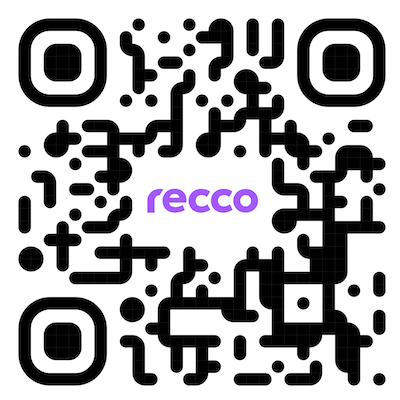
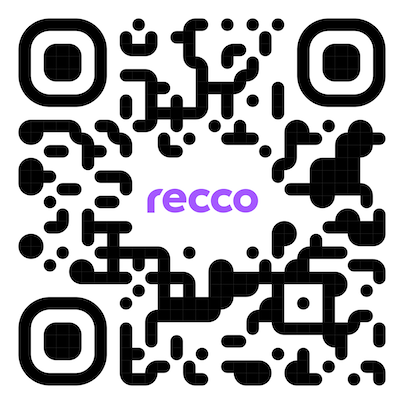
chore: update recco showcase apk reference

diff --git a/README.md b/README.md
@@ -247,5 +247,5 @@ object : ReccoLogger {
 [Recco-Flutter]:https://github.com/sf-recco/flutter-showcase
 [Recco-iOS]:https://github.com/viluahealthcare/recco-ios-sdk
 [Recco-Showcase]:./docs/SHOWCASE.md
-[Recco-Download]:https://app.bitrise.io/app/2e7050f9-468b-45b6-8ab9-73124007335f/build/56d78bb3-52d2-[…]/artifact/aea7957d222cc658/p/6f1f326e75afe5da5aa3a1bd56bbba71
+[Recco-Download]:https://app.bitrise.io/app/2e7050f9-468b-45b6-8ab9-73124007335f/build/f0cf8235-ee29-43e6-a000-7c0c7e940dd2/artifact/af27994c0df5cfbc/p/633b6a2f0ea55095050e5dab7b285bd7
 [Recco-QR]:./art/recco_qr.png
